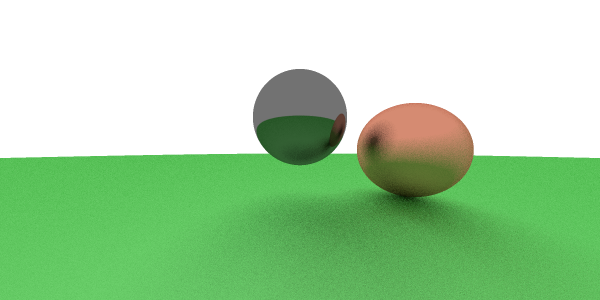
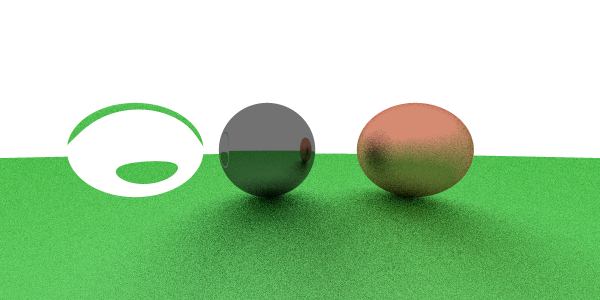
something like glass

diff --git a/rays.py b/rays.py
@@ -2,32 +2,56 @@ import numpy as np
 import matplotlib.pyplot as plt
 
 def normalize(xs):
-    xs = (xs.T / np.linalg.norm(xs, axis=1)).T
-    return xs
+    return xs / np.linalg.norm(xs, axis=1)[:,np.newaxis]
 
 class Metal:
-    def __init__(self, diffusion):
+    def __init__(self, color, diffusion):
+        self.color = np.array(color, dtype=np.float32)
         self.diffusion = diffusion
 
-    def scatters(self, directions, normals):
+    def _reflect(self, directions, normals):
         reflect = normalize(directions - 2 * np.einsum('ij, ij->i', directions, normals)[:,None] * normals)
         gauss = np.random.normal(size=directions.shape)
         gauss = normalize(gauss * np.sum(gauss * normals))
 
-        return reflect + self.diffusion * gauss
+        new_directions = reflect + self.diffusion * gauss
+
+        return new_directions
+
+    def scatters(self, directions, normals, intersections):
+        origins = intersections + normals * 0.001
+        new_directions = self._reflect(directions, normals)
+
+        return origins, new_directions
+
 
 class Dielectric:
     def __init__(self, refraction_index):
         self.ri = refraction_index
+        self.color = np.array([1, 1, 1], dtype=np.float32)
 
-    def scatters(self, directions, normals):
-        pass
+    def _refract(self, directions, normals):
+        '''
+        https://en.wikipedia.org/wiki/Snell's_law
+        '''
+        r = 1/1.5
+        normals[np.where(np.einsum('ij, ij->i', directions, -normals) < 0)] *= -1
+        c = np.einsum('ij, ij->i', directions, -normals)
+
+        return r * directions + (r * c - np.sqrt(1 - r**2 * ( 1 - c**2 )))[:,np.newaxis] * normals
+
+
+    def scatters(self, directions, normals, intersections):
+        origins = intersections - normals * 0.001
+        new_directions = self._refract(normalize(directions), normals)
+
+        return origins, new_directions
+
 
 class Sphere:
-    def __init__(self, center, radius, color, material):
+    def __init__(self, center, radius, material):
         self.center = np.array(center, dtype=np.float32)
         self.radius = radius
-        self.color = np.array(color, dtype=np.float32)
         self.material = material
 
     def hit(self, origins, directions):
@@ -40,39 +64,31 @@ class Sphere:
         possible_hits = np.where(discriminant >= 0.0)
 
         discriminant = discriminant[possible_hits]
-        b = b[possible_hits]
-        a = a[possible_hits]
-        c = c[possible_hits]
 
         distSqrt = np.sqrt(discriminant)
-        distSqrt[np.where(b<0)] = -distSqrt[np.where(b<0)]
+        distSqrt[np.where( b[possible_hits] < 0 )] *= -1
 
-        q = (-b + distSqrt) / 2.0
+        q = (-b[possible_hits] + distSqrt) / 2.0
 
-        t0 = q / a 
-        t1 = c / q
+        t0 = q / a[possible_hits] 
+        t1 = c[possible_hits] / q
 
         roots = np.vstack([t0, t1]).T
+        roots[np.where(roots < 0)] = np.inf
         roots.sort(axis=1)
-
-        # Remove if both roots negative 
-        possible_hits = possible_hits[0][roots[:,1] >= 0]
-        roots = roots[roots[:, 1] >= 0]
-
-        # Find smallest > 0
-
-        #breakpoint()
-        t[possible_hits] = roots[np.arange(len(roots)), np.argmin(roots > 0, axis=1)]
+        
+        t[possible_hits] = roots[:,0]
 
         return t
 
     def scatters(self, directions, intersections):
         normals = normalize(intersections - self.center)
-        origins = intersections + normals  * 0.001
+        normals[np.where(np.einsum('ij, ij->i', directions, normals) > 0)] *= -1
 
-        new_directions = self.material.scatters(directions, normals)
+        origins, new_directions = self.material.scatters(directions, normals, intersections)
 
         return origins, new_directions
+
 
 def trace_rays(scene, origins, directions):
     '''
@@ -90,7 +106,6 @@ def trace_rays(scene, origins, directions):
     # Filter no hits 
     hits = np.where(ts != np.inf)[0]
 
-
     intersections = np.full(origins.shape, np.inf).astype(np.float32)
     normals = np.full(origins.shape, np.inf).astype(np.float32)
     colors = np.zeros(origins.shape).astype(np.float32)
@@ -101,7 +116,7 @@ def trace_rays(scene, origins, directions):
     intersections[hits] = origins[hits] + directions[hits] * np.array([ts[hits], ts[hits], ts[hits]]).T
 
     for obj in scene:
-        colors[objects == obj] = obj.color
+        colors[objects == obj] = obj.material.color
         new_origins[objects == obj], new_directions[objects == obj] = obj.scatters(directions[objects == obj], intersections[objects == obj])
 
 
@@ -136,11 +151,23 @@ def sample(scene, origins, directions):
 
     return colors
 
+class Camera:
+    def __init__(self, w, h, look_from, look_at):
+        self.w = w
+        self.h = h
+        self.look_from = look_from
+        self.look_at = look_at
+
+    def rays(self):
+        pass
+
+    def take_picture(scene):
+        pass
 
 def main():
     w, h = (600, 300)
 
-    sub_pixels_across = 3
+    sub_pixels_across = 5
 
     x = np.linspace(-2, 2, w*sub_pixels_across)
     y = np.linspace(-1, 1, h*sub_pixels_across)
@@ -149,14 +176,15 @@ def main():
     origins = np.zeros(directions.shape).astype(np.float32)
 
     scene = [
-        Sphere([0, 0.2 , -1], 0.3, [0.2, 0.2, 0.2], Metal(0.01)),
-        Sphere([0.7, 0, -1], 0.3, [0.7, 0.3, 0.2], Metal(0.5)),
-        Sphere([0, -1000.3, -1], 1000, [0.2, 0.7, 0.2], Metal(0.8))
+        Sphere([-0.2, 0 , -1], 0.3, Metal([0.2, 0.2, 0.2], 0.01)),
+        Sphere([0.7, 0, -1], 0.3, Metal([0.7, 0.3, 0.2], 0.5)),
+        Sphere([-1, 0, -1], 0.3, Dielectric(1.5)),
+        Sphere([0, -1000.3, -1], 1000, Metal([0.2, 0.7, 0.2], 0.8))
     ]
 
     colors = np.full(origins.shape, 0).astype(np.float32)
 
-    rays_per_pixel = 10
+    rays_per_pixel = 1
     for i in range(rays_per_pixel):
         colors += sample(scene, origins, directions) / rays_per_pixel
     
@@ -168,8 +196,6 @@ def main():
     img = np.transpose(img, (1, 0, 2))
 
     plt.imsave('out.png', img, origin='lower')
-
-
 
 
 import time
